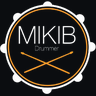
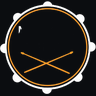
Take the wordmark out of the sizes Google actually uses
Google will only accept a favicon whose sides are a multiple of 48, so it
fetches the 48 or the 96 -- and then paints it at roughly eighteen pixels
beside the search result. The wordmark cut was at 32px, which meant every
size Google was allowed to take was the one kind that cannot survive being
shrunk: the lettering collapsed into a grey smear with the ring around it.

Move the cut to 128px. Ring, lugs and sticks now carry 16 through 96, which
is everything a tab or a search result ever shows. The full lockup stays on
128 and up, where nothing downscales it further: home screen icons, the
apple-touch icon, the large Windows frames.

Also fix /favicon-32.png, which was written from the lockup regardless of
the threshold, and point the live-site check at icon-48 and icon-96 plus
the bare domain, since Google keeps one favicon per hostname.

Claude-Session: https://claude.ai/code/session_01MP3asA2N7V14sqBEfc9nwz

Changed region(s): [[0.1875, 0.25, 0.8125, 0.5312]]

diff --git a/tools/build_icons.py b/tools/build_icons.py
@@ -6,10 +6,21 @@ The logo is a wordmark inside a ring. At 16 pixels the wordmark cannot render
 this replaced had exactly that problem, which is why swapping it appeared to
 change nothing at all: both were the same artwork at the same hopeless size.
 
-So below 32px the wordmark is taken out and the ring, the lugs and the sticks
-are left to carry it. That is a subtraction from the original artwork, not a
-redrawing of it: every pixel that survives came out of brand.png. From 32px up
-the full lockup is used, wordmark and all, because there it reads.
+So for the small icons the wordmark is taken out and the ring, the lugs and the
+sticks are left to carry it. That is a subtraction from the original artwork,
+not a redrawing of it: every pixel that survives came out of brand.png.
+
+The cut is at 128px, and that number is about Google rather than about tabs.
+Google will only take a favicon whose sides are a multiple of 48, so it asks
+for the 48 or the 96 -- and then paints the result at about eighteen pixels
+beside the search result. Sending it a 96px lockup does not send it a readable
+lockup; it sends it a 96px file that Google itself shrinks into the same grey
+smudge. The first cut here was at 32px, which meant every size Google was
+allowed to use was the one size that could not survive being shrunk.
+
+So: ring and sticks up to 96, full lockup at 128 and above. Above 128 nothing
+gets downscaled by someone else -- those are home screen and Windows tile
+icons, drawn near their real size, where the lettering genuinely reads.
 
     python3 tools/build_icons.py [--check]
 """
@@ -31,7 +42,7 @@ ICO_SIZES = [16, 24, 32, 48, 64, 128, 256]
 # multiple of 48px for the icon beside a search result, and ignores what it
 # cannot use.
 PNG_SIZES = [16, 32, 48, 96, 180, 192, 512]
-PLAIN_BELOW = 32                     # under this, the wordmark comes out
+PLAIN_BELOW = 128                    # under this, the wordmark comes out
 
 
 def artwork():
@@ -172,7 +183,7 @@ def main():
     # The conventional paths a browser probes on its own, so a phone looking
     # for /apple-touch-icon.png does not get the August one.
     tile(src, 180).save(os.path.join(ROOT, "apple-touch-icon.png"))
-    tile(src, 32).save(os.path.join(ROOT, "favicon-32.png"))
+    tile(art_for(32), 32).save(os.path.join(ROOT, "favicon-32.png"))
 
     print("written. verifying:")
     return check()
